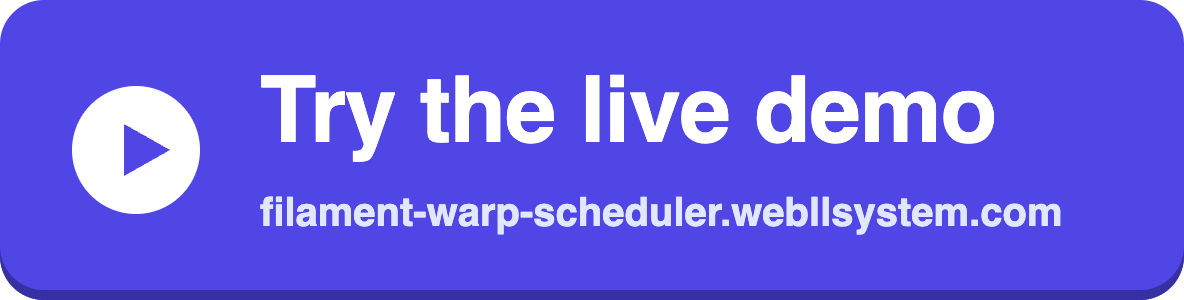
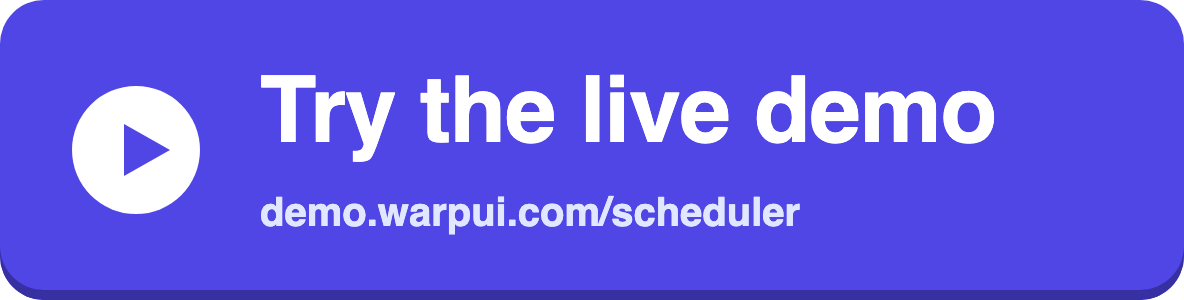
The live demo moved to demo.warpui.com/scheduler

Changed region(s): [[0.2188, 0.66, 0.9062, 0.78]]

diff --git a/README.md b/README.md
@@ -4,9 +4,9 @@
 
 **A resource scheduler for Filament that stays fast with thousands of rows: the timeline, calendars and Gantt chart are drawn on a `<canvas>`, while forms, actions, filters, notifications and permissions are Filament's own.**
 
-<a href="https://filament-warp-scheduler.webllsystem.com/"><img src="https://raw.githubusercontent.com/qalainau-labs/filament-warp-scheduler-docs/main/art/live-demo.png" alt="Try the live demo: filament-warp-scheduler.webllsystem.com" width="592"></a>
+<a href="https://demo.warpui.com/scheduler"><img src="https://raw.githubusercontent.com/qalainau-labs/filament-warp-scheduler-docs/main/art/live-demo.png" alt="Try the live demo: demo.warpui.com/scheduler" width="592"></a>
 
-Scroll through 5,000 people, drag bookings, cover shifts, dispatch jobs and plan a project at **[filament-warp-scheduler.webllsystem.com](https://filament-warp-scheduler.webllsystem.com/)**. No sign-up needed; the data is reset every hour.
+Scroll through 5,000 people, drag bookings, cover shifts, dispatch jobs and plan a project at **[demo.warpui.com/scheduler](https://demo.warpui.com/scheduler)**. No sign-up needed; the data is reset every hour.
 
 Calendar plugins for Filament wrap a JavaScript calendar in a widget. That works for a few dozen resources, but a planning board with hundreds or thousands of people, rooms or machines needs more: a resource timeline that does not build a DOM node per cell, recurring events that are expanded on the server, rules that stop double bookings, and a way to see how busy each resource is.
 
